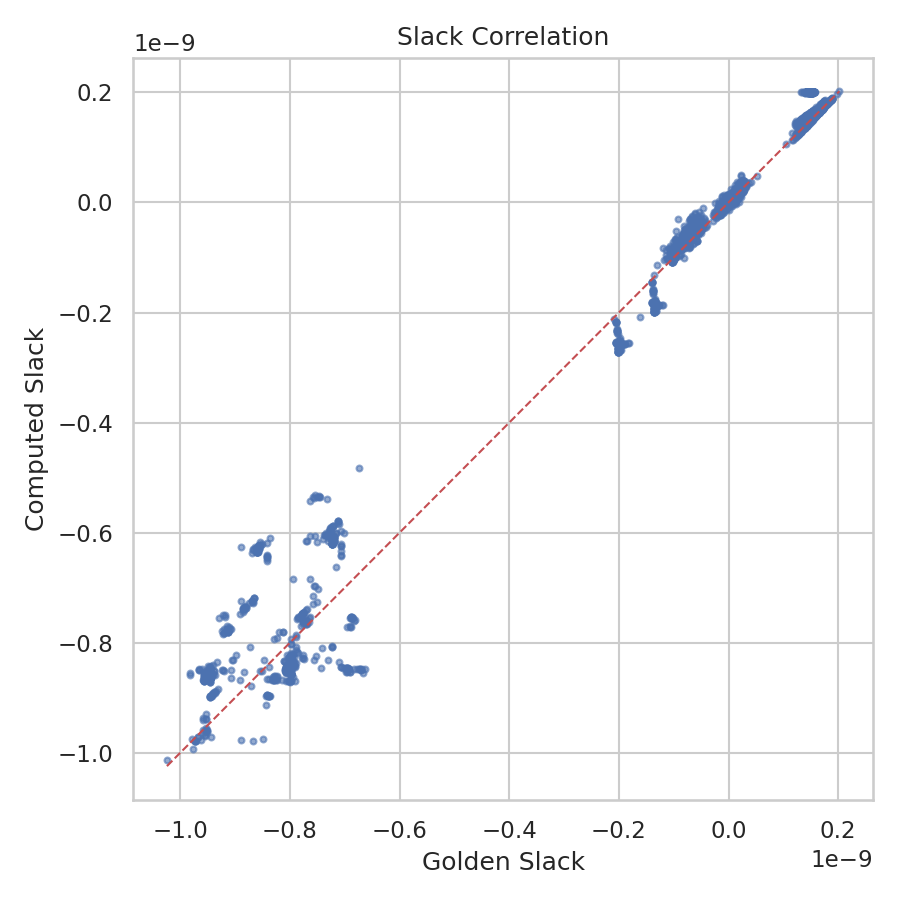
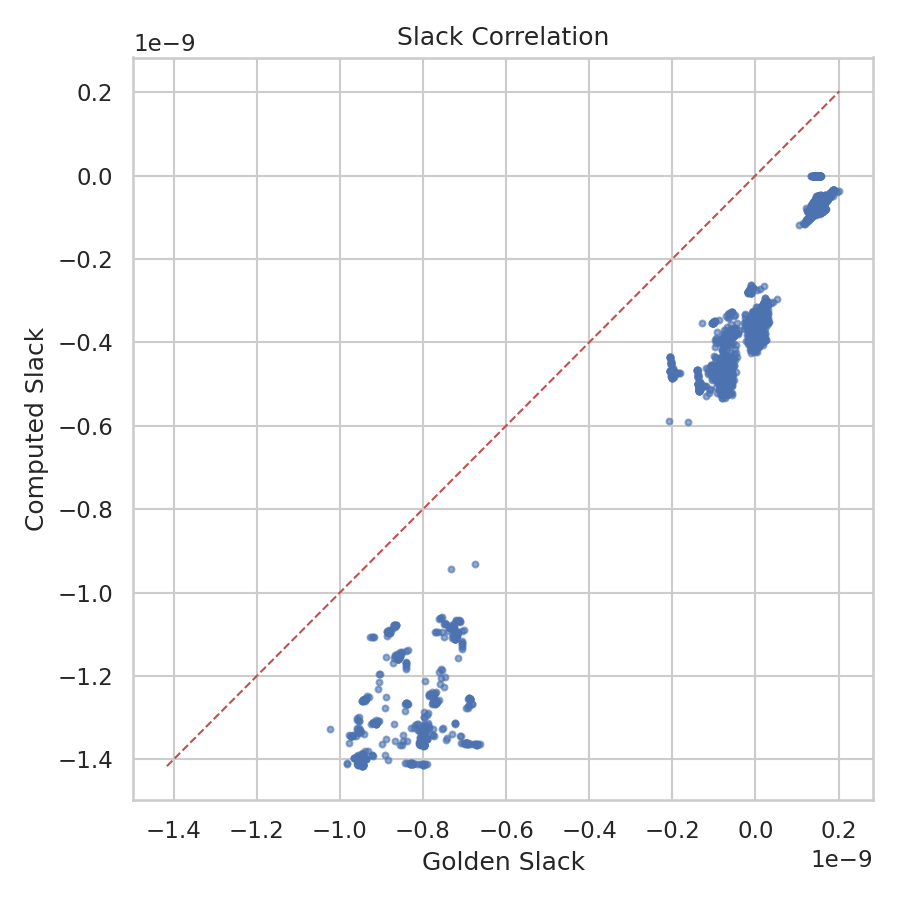
differentiable STA

diff --git a/src/sta/parasitics/ReduceParasitics.cc b/src/sta/parasitics/ReduceParasitics.cc
@@ -135,13 +135,7 @@ ReduceToPi::reduceToPi(const Parasitic *parasitic_network,
 
   double y1, y2, y3, dcap;
   double max_resistance = 0.0;
-  if (pin_name && std::strcmp(pin_name, dbg_reduce_pi_pin) == 0) {
-    std::printf("function: reduceToPi\n");
-    std::printf("[PI-DBG] %s starting at driver node %s\n",
-                pin_name,
-                parasitics_->name(drvr_node));
-    std::printf("init values: y1=0 y2=0 y3=0 dcap=0 rd=0\n");
-  }
+
   reducePiDfs(drvr_pin, drvr_node, nullptr, 0.0,
               y1, y2, y3, dcap, max_resistance);
 
@@ -162,11 +156,7 @@ ReduceToPi::reduceToPi(const Parasitic *parasitic_network,
 
 
   
-  if (pin_name && std::strcmp(pin_name, dbg_reduce_pi_pin) == 0) {
-    std::printf("function: reduceToPi\n");
-    std::printf("[PI-DBG] %s final y1=%g y2=%g y3=%g c1=%g c2=%g rpi=%g rd=%g\n",
-                pin_name, y1, y2, y3, c1, c2, rpi, max_resistance);
-  }
+
 }
 
 
@@ -198,18 +188,7 @@ ReduceToPi::reducePiDfs(const Pin *drvr_pin,
   for (ParasiticResistor *resistor : R)
     r_dbg += parasitics_->value(resistor);
 
-  if (pin_name && std::strcmp(pin_name, dbg_reduce_pi_pin) == 0) {
-    std::printf("[PI-DBG] %s node %s gnd_cap=%.3g coup_cap=%.3g pin_cap=%.3g total_cap=%.3g resistance=%.3g\n",
-                pin_name,
-                parasitics_->name(node),
-                parasitics_->nodeGndCap(node),
-                coupling_cap * coupling_cap_multiplier_,
-                pinCapacitance(node),
-                dwn_cap,
-                r_dbg
-                ); 
-  }
-  
+
   y1 = dwn_cap;
   y2 = y3 = 0.0;
   max_resistance = max(max_resistance, src_resistance);
@@ -238,10 +217,6 @@ ReduceToPi::reducePiDfs(const Pin *drvr_pin,
           y2 += yd2 - r * yd1 * yd1;
           y3 += yd3 - 2 * r * yd1 * yd2 + r * r * yd1 * yd1 * yd1;
           dwn_cap += dcap;
-          if (pin_name && std::strcmp(pin_name, dbg_reduce_pi_pin) == 0) {
-            std::printf("r/y1/y2/y3: %.3g / %.3g / %.3g / %.3g\n",
-                  r, yd1, yd2, yd3);
-          }
         }
       }
     }
@@ -257,17 +232,7 @@ ReduceToPi::reducePiDfs(const Pin *drvr_pin,
              " node %s y1=%.3g y2=%.3g y3=%.3g cap=%.3g",
              parasitics_->name(node), y1, y2, y3, dwn_cap);
 
-  
-  if (pin_name && std::strcmp(pin_name, dbg_reduce_pi_pin) == 0) {
-    double c1 = 0.0, c2 = 0.0, rpi = 0.0;
-    if (y2 != 0.0 && y3 != 0.0) {
-      c1 = y2 * y2 / y3;
-      c2 = y1 - c1;
-      rpi = - y3 * y3 / (y2 * y2 * y2); // or -(y3*y3)/(y2*y2*y2) if you prefer
-    }
-    std::printf("[PI-DBG] %s y1=%g y2=%g y3=%g c1=%g c2=%g rpi=%g rd=%g\n",
-                pin_name, y1, y2, y3, c1, c2, rpi, max_resistance);
-  }
+
 }
 
 float

diff --git a/src/sta/dcalc/GraphDelayCalc.cc b/src/sta/dcalc/GraphDelayCalc.cc
@@ -989,7 +989,7 @@ GraphDelayCalc::findDriverArcDelays(Vertex *drvr_vertex,
     else {
       if(observed)
       {
-        std::cout<<"load cap before gateDelay: " << load_cap << std::endl;
+        //std::cout<<"load cap before gateDelay: " << load_cap << std::endl;
       }
       Vertex *from_vertex = edge->from(graph_);
       const Slew in_slew = edgeFromSlew(from_vertex, from_rf, edge, dcalc_ap);
@@ -999,12 +999,12 @@ GraphDelayCalc::findDriverArcDelays(Vertex *drvr_vertex,
                                                               dcalc_ap);
       if(observed)
       {
-        std::cout<<"in slew: " << in_slew << std::endl;
-        std::cout<<"load cap: " << load_cap << std::endl;
-        std::cout<<"arc: "<< arc->to_string() << std::endl;
-        std::cout<<"gate delay: " << delayAsString(dcalc_result.gateDelay(), this) << std::endl;
-        std::cout<<"driver slew: " << delayAsString(dcalc_result.drvrSlew(), this) << std::endl;
-        std::cout<<std::endl;
+        //std::cout<<"in slew: " << in_slew << std::endl;
+        //std::cout<<"load cap: " << load_cap << std::endl;
+        //std::cout<<"arc: "<< arc->to_string() << std::endl;
+        //std::cout<<"gate delay: " << delayAsString(dcalc_result.gateDelay(), this) << std::endl;
+        //std::cout<<"driver slew: " << delayAsString(dcalc_result.drvrSlew(), this) << std::endl;
+        //std::cout<<std::endl;
       }
       delay_changed |= annotateDelaysSlews(edge, arc, dcalc_result,
                                            load_pin_index_map, dcalc_ap);
